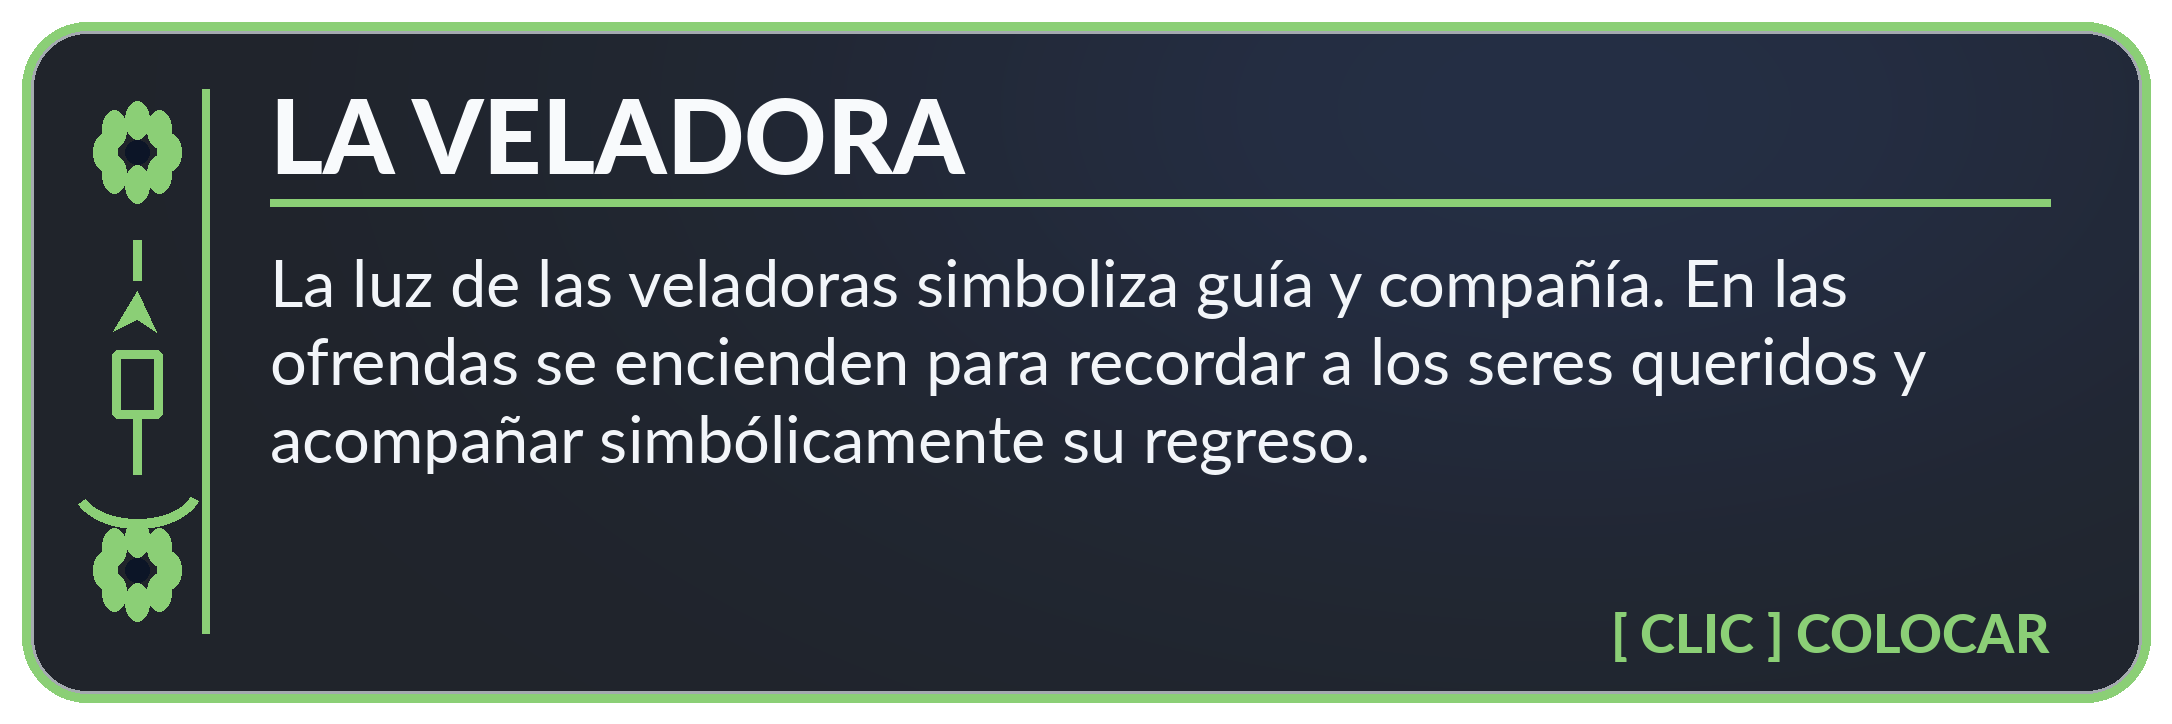
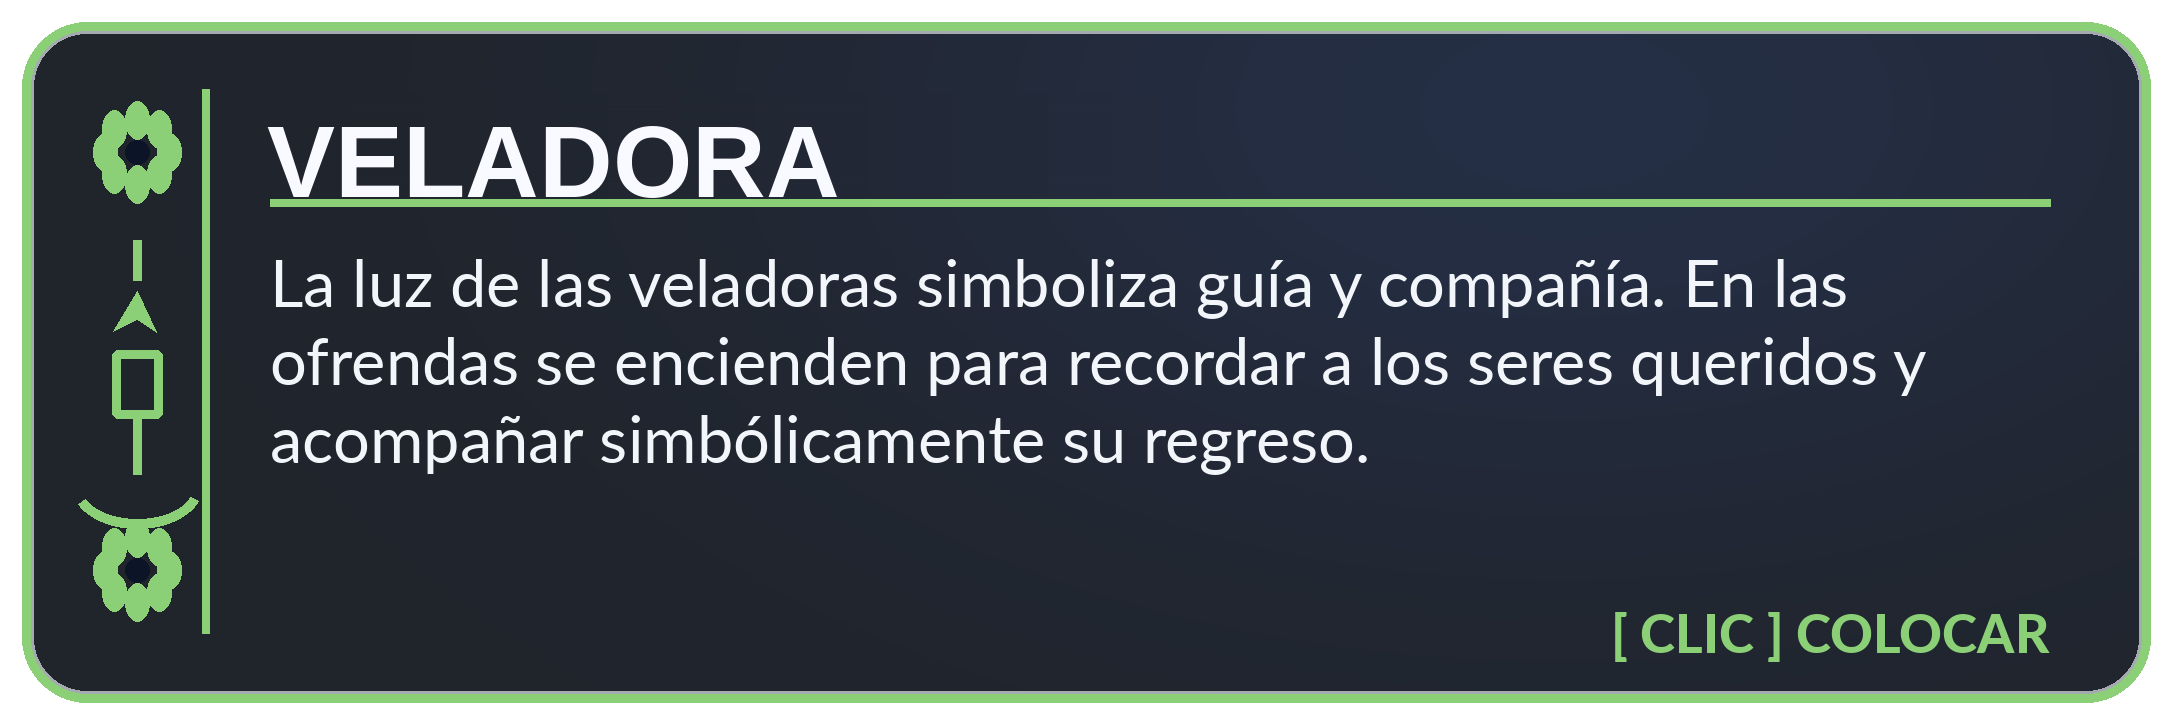
Letrero Mariposas

Changed region(s): [[0.1234, 0.1215, 0.4627, 0.2735]]

diff --git a/proyectoFinal/src/main.cpp b/proyectoFinal/src/main.cpp
@@ -764,6 +764,8 @@ int main()
 	GLuint hintInfoTexture = SOIL_load_OGL_texture("assets/texturas/hint_info.png", SOIL_LOAD_RGBA, SOIL_CREATE_NEW_ID, SOIL_FLAG_INVERT_Y);
 	GLuint hintFreeTexture = SOIL_load_OGL_texture("assets/texturas/hint_free.png", SOIL_LOAD_RGBA, SOIL_CREATE_NEW_ID, SOIL_FLAG_INVERT_Y);
 	GLuint hintAnimationTexture = SOIL_load_OGL_texture("assets/texturas/hint_animation.png", SOIL_LOAD_RGBA, SOIL_CREATE_NEW_ID, SOIL_FLAG_INVERT_Y);
+	GLuint hintMariposasCam4Texture = SOIL_load_OGL_texture("assets/texturas/hint_mariposas_cam4.png",SOIL_LOAD_RGBA, SOIL_CREATE_NEW_ID, SOIL_FLAG_INVERT_Y);
+	GLuint hintDetenerMariposasCam4Texture = SOIL_load_OGL_texture("assets/texturas/hint_detener_mariposas_cam4.png",SOIL_LOAD_RGBA, SOIL_CREATE_NEW_ID, SOIL_FLAG_INVERT_Y);
 	GLuint infoTexture2 = SOIL_load_OGL_texture("assets/texturas/info_camara2.png", SOIL_LOAD_RGBA, SOIL_CREATE_NEW_ID, SOIL_FLAG_INVERT_Y);
 	GLuint hintInfoTexture2 = SOIL_load_OGL_texture("assets/texturas/hint_info_cam2.png", SOIL_LOAD_RGBA, SOIL_CREATE_NEW_ID, SOIL_FLAG_INVERT_Y);
 	GLuint infoTexture3 = SOIL_load_OGL_texture("assets/texturas/info_camara3.png", SOIL_LOAD_RGBA, SOIL_CREATE_NEW_ID, SOIL_FLAG_INVERT_Y);
@@ -969,6 +971,14 @@ int main()
 
 			return vao;
 		};
+
+
+	// Camara 4: dos avisos superiores separados
+	GLuint hintMariposasCam4VAO =
+		crearPanelSuperior(-0.94f, -0.07f, 0.61f, 0.94f);
+
+	GLuint hintDetenerMariposasCam4VAO =
+		crearPanelSuperior(0.07f, 0.94f, 0.61f, 0.94f);
 
 	// Aviso pequeño: esquina superior izquierda
 	GLuint hintOfrendaSuperiorVAO =
@@ -1766,13 +1776,28 @@ arbustos.Draw(lightingShader);
 				glBindVertexArray(0);
 			}
 
-			// Camara 4: animacion del personaje
+
 			else if (correntCamera == 3) {
+
+				// L: reverencia, abajo a la izquierda
 				glBindTexture(GL_TEXTURE_2D, hintAnimationTexture4);
 				glBindVertexArray(hintAnimationVAO);
 				glDrawArrays(GL_TRIANGLES, 0, 6);
 				glBindVertexArray(0);
+
+				// B: iniciar mariposas, arriba a la izquierda
+				glBindTexture(GL_TEXTURE_2D, hintMariposasCam4Texture);
+				glBindVertexArray(hintMariposasCam4VAO);
+				glDrawArrays(GL_TRIANGLES, 0, 6);
+				glBindVertexArray(0);
+
+				// V: detener mariposas, arriba a la derecha
+				glBindTexture(GL_TEXTURE_2D, hintDetenerMariposasCam4Texture);
+				glBindVertexArray(hintDetenerMariposasCam4VAO);
+				glDrawArrays(GL_TRIANGLES, 0, 6);
+				glBindVertexArray(0);
 			}
+
 		}
 		else if (showInfoPanel && correntCamera < 4) {
 
